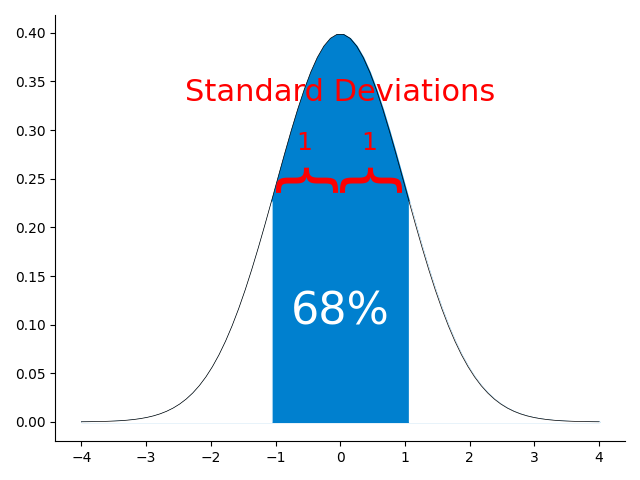
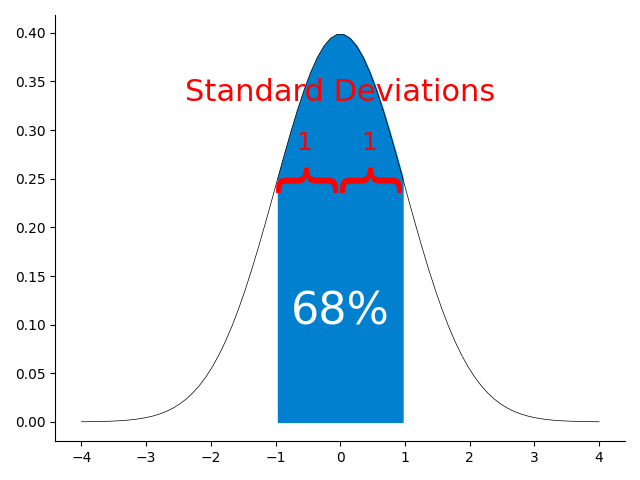
range

Changed region(s): [[0.625, 0.375, 0.6562, 0.875], [0.4062, 0.375, 0.4375, 0.875]]

diff --git a/graphic/plot.py b/graphic/plot.py
@@ -282,6 +282,9 @@ class Plot(DoStats):
                 this_function_name=self.this_function_name
             else:
                 this_function_name='drawFunction'
+        # Hide the right and top spines
+        self.ax.spines['right'].set_visible(False)
+        self.ax.spines['top'].set_visible(False)
         plt.tight_layout()
         plt.savefig("img/{0}.png".format(this_function_name))
         enableShow and self.show()
@@ -423,21 +426,24 @@ class Plot(DoStats):
         callback=callback,
         annotation=annotation)
         return self
-    def pltNdLine(self,callback=None,clip=0):
+    def pltNdLine(self,callback=None,clip=None):
         mu = 0
         variance = 1
         limit=4
-        count=80
+        times=10
+        count=2*limit*times
         sigma = math.sqrt(variance)
         x = np.linspace(mu - limit*sigma, mu + limit*sigma, count)
-        x1 = np.linspace(-limit, limit, count)
         y = self.getPdf(x, mu, sigma)
-        fig, ax = self.getFigAx()
+        _, ax = self.getFigAx()
         ax.plot(x, y,c='black',linewidth=.5)
-        ax.fill_between(x, y, color='#0080CF', alpha=1)
-        if clip:
-            ax.fill_between(x[:clip], y[:clip], color='white', alpha=1)
-            ax.fill_between(x[count-clip:], y[count-clip:], color='white', alpha=1)
+        if isinstance(clip,(list,tuple)):
+            x1 = np.linspace(-limit, limit, limit*2+1)
+            start=np.where(x1==clip[0])[0][0]*times
+            end=np.where(x1==clip[1])[0][0]*times
+            ax.fill_between(x[start:end], y[start:end], color='#0080CF', alpha=1)
+        else:
+            ax.fill_between(x, y, color='#0080CF', alpha=1)
         callable(callback) and callback(ax,plt)
         self.this_function_name = inspect.currentframe().f_code.co_name
         return self

diff --git a/test/fun/test_SD_VAR.py b/test/fun/test_SD_VAR.py
@@ -31,15 +31,11 @@ class TDD_TEST_SD_VAR(unittest.TestCase):
             self.p.drawTxt({'fontsize':18,'center':'center','color':'red','position':[.45,.28],'txt':1})
             self.p.drawTxt({'fontsize':22,'center':'center','color':'red','position':[0,.33],'txt':'Standard Deviations'})
             self.p.drawTxt({'fontsize':32,'center':'center','color':'white','position':[0,.1],'txt':'68%'})
-            # Hide the right and top spines
-            ax.spines['right'].set_visible(False)
-            ax.spines['top'].set_visible(False)
-            
         # self.p.plotStdND(
         #     # func=func,
         #     barCol='#0080CF',
         #     cutLineCol='black',
         # ).saveAndShow()
-        self.p.pltNdLine(callback=func,clip=30).saveAndShow()
+        self.p.pltNdLine(callback=func,clip=(-1,1)).saveAndShow()
 if __name__ == '__main__':
     unittest.main()
